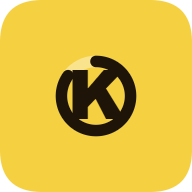
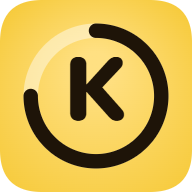
feat: rediseño de icono PWA estilo iOS
K más grande (~46%) en Nunito 900, anillo 3/4 prominente y fondo
con gradiente radial. Pipeline ahora genera 180/192/512; separación
de purposes (any para iOS full-bleed, maskable para Android adaptive)
y apple-touch-icon de 180×180 dedicado. SW bump a v14.

diff --git a/assets/generate-icons.html b/assets/generate-icons.html
@@ -1,52 +1,91 @@
 <!DOCTYPE html>
-<!-- Abre este archivo en un navegador, luego haz clic en los botones para descargar los iconos PNG -->
+<!-- Abre este archivo en un navegador, espera a que cargue Nunito, y descarga cada PNG.
+     Luego mueve los archivos a la carpeta assets/ (reemplazando los existentes). -->
 <html>
-<head><meta charset="UTF-8"><title>Generar iconos KCALIA</title></head>
-<body style="font-family:sans-serif;padding:24px;background:#f5f5f5">
+<head>
+  <meta charset="UTF-8">
+  <title>Generar iconos KCALIA</title>
+  <link rel="preconnect" href="https://fonts.googleapis.com">
+  <link rel="preconnect" href="https://fonts.gstatic.com" crossorigin>
+  <link href="https://fonts.googleapis.com/css2?family=Nunito:wght@900&display=swap" rel="stylesheet">
+  <style>
+    body { font-family: 'Nunito', sans-serif; padding: 24px; background: #f5f5f5; color: #1E1408; }
+    h2 { margin-bottom: 8px; }
+    p { margin-bottom: 8px; }
+    .status { padding: 8px 12px; border-radius: 6px; background: #FFF3C4; display: inline-block; font-weight: 700; }
+    .status.ready { background: #C8F0C8; }
+    .row { display: flex; gap: 24px; margin-top: 16px; flex-wrap: wrap; align-items: flex-start; }
+    .col { display: flex; flex-direction: column; gap: 8px; align-items: center; }
+    canvas { box-shadow: 0 4px 12px rgba(0,0,0,0.12); }
+    .label { font-size: 13px; color: #5A4530; font-weight: 600; }
+    button { padding: 8px 16px; font-weight: 700; cursor: pointer; border: 0; border-radius: 8px; background: #F5D040; color: #1E1408; font-family: inherit; }
+    button:hover { background: #FFD850; }
+  </style>
+</head>
+<body>
   <h2>Generador de iconos KCALIA</h2>
-  <p>Haz clic en cada botón para descargar el ícono. Luego mueve los archivos a la carpeta <code>assets/</code>.</p>
-  <div style="display:flex;gap:24px;margin-top:16px;flex-wrap:wrap">
-    <div>
-      <canvas id="c192" width="192" height="192" style="border-radius:38px;display:block;margin-bottom:8px"></canvas>
+  <p>Descarga los tres PNG y muévelos a la carpeta <code>assets/</code>, reemplazando los existentes.</p>
+  <p><span id="status" class="status">Cargando fuente Nunito…</span></p>
+  <div class="row">
+    <div class="col">
+      <canvas id="c180" width="180" height="180"></canvas>
+      <span class="label">180×180 — iOS apple-touch-icon</span>
+      <button onclick="dl('c180','icon-180.png')">Descargar icon-180.png</button>
+    </div>
+    <div class="col">
+      <canvas id="c192" width="192" height="192"></canvas>
+      <span class="label">192×192 — PWA (Android)</span>
       <button onclick="dl('c192','icon-192.png')">Descargar icon-192.png</button>
     </div>
-    <div>
-      <canvas id="c512" width="512" height="512" style="border-radius:100px;display:block;margin-bottom:8px"></canvas>
+    <div class="col">
+      <canvas id="c512" width="512" height="512"></canvas>
+      <span class="label">512×512 — PWA grande</span>
       <button onclick="dl('c512','icon-512.png')">Descargar icon-512.png</button>
     </div>
   </div>
   <script>
+    // KCALIA icon — pintado en canvas a partir de un único patrón paramétrico.
+    // - Fondo: cuadrado con esquinas redondeadas (iOS aplica su propia máscara
+    //   encima, pero las esquinas internas evitan que un fondo cuadrado se
+    //   vea raro en Android no-adaptive).
+    // - Anillo de progreso 3/4 (asociación visual con tracking calórico).
+    // - K central en Nunito 900 (misma tipografía que la app).
     function drawIcon(canvas) {
       const s = canvas.width;
       const ctx = canvas.getContext('2d');
-      const r = s * 0.18;
+      ctx.clearRect(0, 0, s, s);
 
-      // Background
-      ctx.fillStyle = '#F5D040';
+      // Fondo con gradiente radial sutil (profundidad estilo iOS).
+      const grad = ctx.createRadialGradient(s * 0.5, s * 0.35, s * 0.08, s * 0.5, s * 0.55, s * 0.75);
+      grad.addColorStop(0, '#FFE082');
+      grad.addColorStop(1, '#F5C730');
+      ctx.fillStyle = grad;
       roundRect(ctx, 0, 0, s, s, s * 0.22);
       ctx.fill();
 
-      // Circle ring background
+      // Anillo de fondo (claro, ~30% de opacidad blanca).
+      const ringR = s * 0.34;
+      const ringW = s * 0.075;
       ctx.beginPath();
-      ctx.arc(s/2, s/2, r, 0, Math.PI * 2);
-      ctx.strokeStyle = 'rgba(255,255,255,0.4)';
-      ctx.lineWidth = s * 0.06;
+      ctx.arc(s / 2, s / 2, ringR, 0, Math.PI * 2);
+      ctx.strokeStyle = 'rgba(255, 255, 255, 0.45)';
+      ctx.lineWidth = ringW;
       ctx.stroke();
 
-      // Circle ring filled arc
+      // Arco "lleno" — 3/4 de vuelta empezando arriba (a -π/2).
       ctx.beginPath();
-      ctx.arc(s/2, s/2, r, -Math.PI/2, Math.PI * 1.2);
+      ctx.arc(s / 2, s / 2, ringR, -Math.PI / 2, Math.PI);
       ctx.strokeStyle = '#1E1408';
-      ctx.lineWidth = s * 0.06;
+      ctx.lineWidth = ringW;
       ctx.lineCap = 'round';
       ctx.stroke();
 
-      // Letter K
+      // K central, grande y bold.
       ctx.fillStyle = '#1E1408';
-      ctx.font = `900 ${s * 0.36}px "Arial Black", Arial`;
+      ctx.font = '900 ' + (s * 0.46) + 'px Nunito, "Arial Black", Arial, sans-serif';
       ctx.textAlign = 'center';
       ctx.textBaseline = 'middle';
-      ctx.fillText('K', s/2, s/2 + s*0.02);
+      ctx.fillText('K', s / 2, s / 2 + s * 0.015);
     }
 
     function roundRect(ctx, x, y, w, h, r) {
@@ -70,8 +109,16 @@
       a.click();
     }
 
-    drawIcon(document.getElementById('c192'));
-    drawIcon(document.getElementById('c512'));
+    // Espera a que Nunito termine de cargar antes de pintar — si no, el navegador
+    // usa fallback y la K sale con otra forma.
+    document.fonts.ready.then(function () {
+      drawIcon(document.getElementById('c180'));
+      drawIcon(document.getElementById('c192'));
+      drawIcon(document.getElementById('c512'));
+      const s = document.getElementById('status');
+      s.textContent = 'Listo — Nunito cargada. Descarga los tres PNGs.';
+      s.classList.add('ready');
+    });
   </script>
 </body>
 </html>

diff --git a/index.html b/index.html
@@ -9,7 +9,8 @@
 <meta name="apple-mobile-web-app-title" content="KCALIA">
 <meta name="theme-color" content="#F5D040">
 <link rel="manifest" href="manifest.json">
-<link rel="apple-touch-icon" href="assets/icon-192.png">
+<link rel="apple-touch-icon" sizes="180x180" href="assets/icon-180.png">
+<link rel="apple-touch-icon" sizes="192x192" href="assets/icon-192.png">
 <link rel="preconnect" href="https://fonts.googleapis.com">
 <link rel="preconnect" href="https://fonts.gstatic.com" crossorigin>
 <link href="https://fonts.googleapis.com/css2?family=Nunito:wght@400;500;600;700;800;900&family=DM+Sans:wght@300;400;500;600&display=swap" rel="stylesheet">

diff --git a/sw.js b/sw.js
@@ -1,6 +1,6 @@
 // KCALIA Service Worker — offline-first cache.
 // Bump CACHE whenever JSX/HTML assets change so users pick up new code on next load.
-const CACHE = 'kcalia-v13';
+const CACHE = 'kcalia-v14';
 const ASSETS = [
   './',
   './index.html',
@@ -16,6 +16,7 @@ const ASSETS = [
   './Notifications.jsx',
   './WaterTracker.jsx',
   './manifest.json',
+  './assets/icon-180.png',
   './assets/icon-192.png',
   './assets/icon-512.png',
   'https://fonts.googleapis.com/css2?family=Nunito:wght@400;500;600;700;800;900&family=DM+Sans:wght@300;400;500;600&display=swap',
